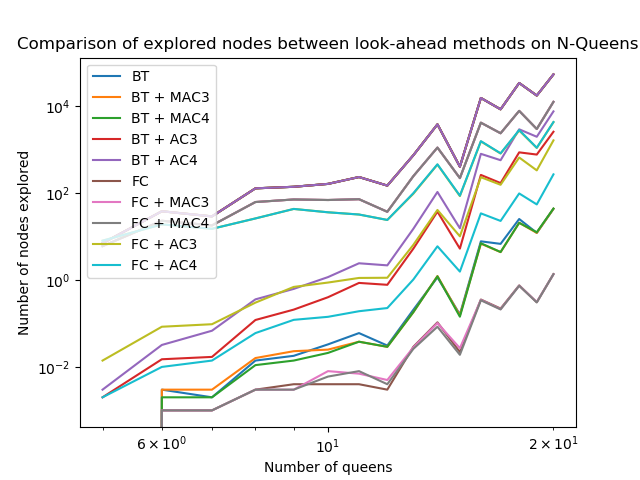
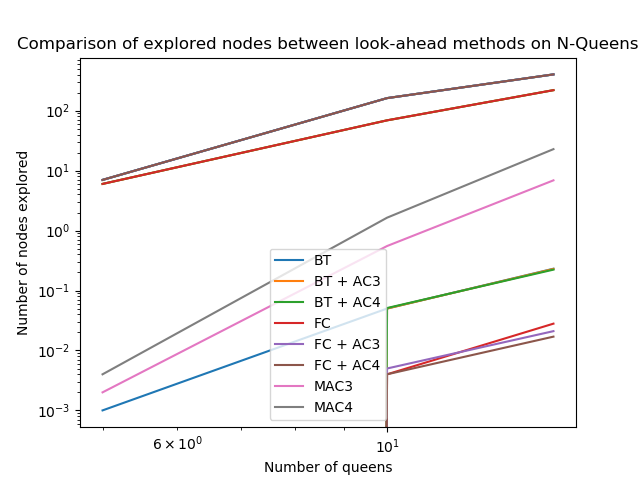
add timeout

diff --git a/src/n_queens.py b/src/n_queens.py
@@ -12,6 +12,7 @@ def verification(assignment: list) -> bool:
     N = len(assignment)
     for i in range(N-1):
         for j in range(i+1, N):
+            if assignment[i] is None or assignment[j] is None: return False
             if not constr_nqueens(i, j, assignment[i], assignment[j]):
                 return False
     return True
@@ -74,60 +75,131 @@ def solve_nqueens(N: int, settings=None):
 
     isFeasible = csp_solver.solve()
     display_sol_nqueens(csp_solver, N)
-    return csp_solver.exploredNodes, csp_solver.exploreTime, isFeasible
+    
+    if isFeasible != verification(csp_solver.assignments):
+        isFeasible = False
+        print("The solution found by Solver is not valid ! ")
+    return csp_solver.exploredNodes, csp_solver.exploreTime, isFeasible, csp_solver.timeOut
 
 
-def benchmarking():
+def benchmarking_consistency():
     import matplotlib.pyplot as plt
 
     instances = dict()  # algo (string) => instance size (list)
     usedTimes = dict()  # algo (string) => times (list)
     nodes = dict()  # algo (string) => nb nodes (list)
 
-    for compo1 in ["BT", "FC"]:
-        for compo2 in [None, "MAC3", "MAC4", "AC3", "AC4"]:
-            method = compo1
-            if compo2 is not None:
-                method += " + " + compo2
+    for lookAhead in ["BT", "FC", "MAC3", "MAC4"]:
+        for root in [None, "AC3", "AC4"]:
+
+            if lookAhead == "MAC3" or lookAhead == "MAC4":
+                if not root is None:
+                    break
+            
+            method = lookAhead
+            if not root is None:
+                method += " + " + root
             sizes = []
             t = []
             n = []
 
-            for N in [*list(range(5, 15, 5)), *range(10, 50, 500)]:  # TODO : a corriger
-                exploredNodes, exploreTime, isFeasible = solve_nqueens(N, [compo1, compo2])
+            for N in [*list(range(5, 20)), *range(20, 50, 5)]:
+                exploredNodes, exploreTime, isFeasible, timeOut = solve_nqueens(N, [lookAhead, root])
                 if isFeasible:
                     sizes.append(N)
                     t.append(exploreTime)
                     n.append(exploredNodes)
-               
+                elif timeOut:
+                    break
+                else:
+                    raise Exception("Solver cannot solve the {}-Queens problem".format(N))
+            
             instances[method] = sizes
             usedTimes[method] = t
             nodes[method] = n
-    
+
+
     # generate picture times
     for method in instances.keys():
         plt.plot(instances[method], usedTimes[method], label = method)
 
     plt.legend()
+    plt.yscale("log")
+    plt.xscale("log")
     plt.title("Comparison of computation times between look-ahead methods on N-Queens")
     plt.xlabel("Number of queens")
     plt.ylabel("Time(s)")
-    plt.savefig('../results/N-Queens_benchmarking_times.png')
+    plt.savefig('../results/N-Queens_impact_consistent_times.png')
 
     # generate picture nodes
     for method in instances.keys():
         plt.plot(instances[method], nodes[method], label = method)
 
-    plt.legend()
     plt.title("Comparison of explored nodes between look-ahead methods on N-Queens")
     plt.xlabel("Number of queens")
     plt.ylabel("Number of nodes explored")
-    plt.savefig('../results/N-Queens_benchmarking_nodes.png')
+    plt.savefig('../results/N-Queens_impact_consistent_nodes.png')
+
+
+
+def benchmarking_heuristics(selections: list, heurictics: str):
+    import matplotlib.pyplot as plt
+
+    select = dict()  # variable selection (string) => instance size (list)
+    usedTimes = dict()  # variable selection (string) => times (list)
+    nodes = dict()  # variable selection (string) => nb nodes (list)
+
+    for option in range(len(selections)):
+        
+        method = selections[option]
+        sizes = []
+        t = []
+        n = []
+
+        for N in [*list(range(5, 20)), *range(20, 50, 5)]: 
+            exploredNodes, exploreTime, isFeasible, timeOut = solve_nqueens(N, ["FC", "AC4"])
+            if isFeasible:
+                sizes.append(N)
+                t.append(exploreTime)
+                n.append(exploredNodes)
+            elif timeOut:
+                break
+            else:
+                raise Exception("Solver cannot solve the {}-Queens problem".format(N))
+        
+        select[method] = sizes
+        usedTimes[method] = t
+        nodes[method] = n
+
+
+    # generate picture times
+    for method in select.keys():
+        plt.plot(select[method], usedTimes[method], label = method)
+
+    plt.legend()
+    plt.yscale("log")
+    plt.xscale("log")
+    plt.title("Comparison of computation times between {} order heuristics on N-Queens".format(heurictics))
+    plt.xlabel("Number of queens")
+    plt.ylabel("Time(s)")
+    plt.savefig('../results/N-Queens_{}_heuristics_times.png'.format(heurictics))
+
+    # generate picture nodes
+    for method in select.keys():
+        plt.plot(select[method], nodes[method], label = method)
+
+    plt.title("Comparison of explored nodes between variables order heuristics on N-Queens")
+    plt.xlabel("Number of queens")
+    plt.ylabel("Number of nodes explored")
+    plt.savefig('../results/N-Queens_{}_heuristics_nodes.png'.format(heurictics))
 
 
 if __name__ == "__main__":
     # import timeit
     # print(timeit.timeit("solve_nqueens(10)", globals=locals()))
 
-    solve_nqueens(15, settings=["MAC4"])
-    #benchmarking()
+    #solve_nqueens(15, settings=["MAC4"])
+    benchmarking_consistency()
+
+    # for (s, h) in [(VARIABLES_SELECTION, "variables"), (VALUES_SELECTION, "values")]:
+    #     benchmarking_heuristics(s, h)

diff --git a/src/coloring.py b/src/coloring.py
@@ -1,6 +1,7 @@
 #!/usr/bin/env python3
 # -*- coding: utf-8 -*-
 
+from typing import Tuple
 from CSP import *
 import os
 
@@ -29,12 +30,23 @@ def lecture(path: str):
     return matrixIncidency, nodes, edges
 
 
-def solve_coloring(path: str, upperB=0):
+def verification(assignment, matrix) -> bool:
+    """ Verify if the given solution is satisfied by graph coloring problem. """
+    nodes = len(assignment)
+    for u in range(nodes-1):
+        for v in range(u+1, nodes):
+            if assignment[u] is None or assignment[v] is None: return False
+            if matrix[u][v]:  # if u, v are adjacent
+                if assignment[u] == assignment[v] : return False
+    return True
+
+
+def solve_coloring(path: str, colors):
     """ Solve the (simple undirected) graph coloring problem with a default given chromatic number. """
     matrix, nodes, edges = lecture(path)
 
-    if upperB == 0:
-        upperB = max(list(map(sum, matrix))) + 1  # set upper bound as the maximum degree + 1
+    # if upperB == 0:
+    #     upperB = max(list(map(sum, matrix))) + 1  # set upper bound as the maximum degree + 1
 
     # mobilization
     csp_solver = CSP()
@@ -42,7 +54,7 @@ def solve_coloring(path: str, upperB=0):
     # variables
     x = []
     for i in range(nodes):
-        x.append(csp_solver.add_variable("x{}".format(i), 1, upperB))
+        x.append(csp_solver.add_variable("x{}".format(i), 1, colors))
 
     # constraints
     for u in range(nodes-1):
@@ -66,16 +78,19 @@ def solve_coloring(path: str, upperB=0):
     print("Total {}s used in the tree exploration.".format(csp_solver.exploreTime))
     print("Sol is feasible ? {}".format(csp_solver.isFeasible))
 
-    return nodes, edges, isFeasible, csp_solver.exploredNodes, csp_solver.exploreTime
+    if isFeasible != verification(csp_solver.assignments, matrix):
+        isFeasible = False
+        print("The solution found by Solver is not valid ! ")
+    return nodes, edges, isFeasible, csp_solver.exploredNodes, csp_solver.exploreTime, csp_solver.timeOut
 
 
 if __name__ == "__main__":
-    chromaticsKnown = {"myciel3.col": 4, "myciel4.col": 5}
-    # , "myciel5.col": 6, "myciel6.col": 7, "myciel7.col": 8,
-    #     "anna.col" : 11, "david.col": 11, "homer.col": 13, "le450_15b.col": 15, "huck.col": 11, "jean.col": 10,
-    #     "games120.col" : 9, "miles250.col": 8, "queen7_7.col": 7, "queen11_11.col": 11, "miles500.col": 20,
-    #     "le450_25a.col": 25, "le450_5a.col": 5, "mulsol.i.1.col": 49, "zeroin.i.1.col": 49, "zeroin.i.2.col": 30, 
-    #     "miles1000.col": 42}
+    chromaticsKnown = {"myciel3.col": 4, "myciel3.col": 3, "myciel4.col": 5, "myciel4.col": 4
+    , "myciel5.col": 6, "myciel6.col": 7, "myciel7.col": 8,
+        "anna.col" : 11, "david.col": 11, "homer.col": 13, "le450_15b.col": 15, "huck.col": 11, "jean.col": 10,
+        "games120.col" : 9, "miles250.col": 8, "queen7_7.col": 7, "queen11_11.col": 11, "miles500.col": 20,
+        "le450_25a.col": 25, "le450_5a.col": 5, "mulsol.i.1.col": 49, "zeroin.i.1.col": 49, "zeroin.i.2.col": 30, 
+        "miles1000.col": 42}
 
     directory = "../instances/"
 
@@ -102,20 +117,22 @@ if __name__ == "__main__":
 \begin{document}
 \begin{center}
 \renewcommand{\arraystretch}{1.4}
- \begin{tabular}{lccccc}
+ \begin{tabular}{lcccccc}
 	\hline
-\textbf{Instance}  & \textbf{vertices} & \textbf{edges}  & \textbf{Chromatic Number} & \textbf{Time(s)} & \textbf{Explored Nodes} \\\hline
+\textbf{Instance}  & \textbf{vertices} & \textbf{edges}  & \textbf{Chromatic Number} & \textbf{Feasible?} & \textbf{Time(s)} & \textbf{Explored Nodes} \\\hline
 
 """
         f.write(latex)
 
         for instance in chromaticsKnown.items():
-            nodes, edges, isFeasible, exploredNodes, exploreTime = solve_coloring(directory + instance[0], instance[1])
-            f.write("{} & {} & {} & ".format(instance[0], nodes, edges))
+            nodes, edges, isFeasible, exploredNodes, exploreTime, timeOut = solve_coloring(directory + instance[0], instance[1])
+            f.write("{} & {} & {} & {} & ".format(instance[0], nodes, edges, instance[1]))
             if isFeasible:
-                f.write("{} & ".format(instance[1]))
+                f.write("Y & ")
+            elif timeOut:
+                f.write("TO & ")
             else:
-                f.write("- & ")
+                f.write("N & ")
             f.write("{} & {} \\\\ \n".format(exploreTime, exploredNodes))
         
         latex = r"""

diff --git a/src/CSP.py b/src/CSP.py
@@ -48,6 +48,9 @@ class CSP(object):
         self.exploredNodes = 0
         self.exploreTime = 0
         self.isFeasible = False
+        self.timeOut = False
+        self.timeLimit = 300 # seconds
+        self.start = None
     
     def __init_parameters(self):
         self.param["variable"] = None
@@ -283,11 +286,11 @@ class CSP(object):
         self.__init_matrix_incidence_supported_values_counter()
         # print("supportedValCount : {}. ".format(self.supportedValCount))
 
-        start = time.time()
+        self.start = time.time()
 
         self.isFeasible = backtracking(self, 0)
 
         end = time.time()
-        self.exploreTime = round(end - start, 3)
+        self.exploreTime = round(end - self.start, 3)
         
         return self.isFeasible

diff --git a/src/backtrack.py b/src/backtrack.py
@@ -3,6 +3,7 @@
 
 import CSP
 from arc_consistency import ac3, ac4
+import time
 
 
 def forward_checking(csp: CSP.CSP, level: int, varId, var) -> bool:
@@ -49,6 +50,10 @@ def backtracking(csp: CSP.CSP, level: int) -> bool:
     if csp.nb_assigned == csp.nbVars:
         return True
 
+    if time.time() - csp.start > csp.timeLimit:
+        csp.timeOut = True
+        return False
+    
     csp.exploredNodes += 1  # arrived at a new node
 
     # Propagate domain updates to (potential) children nodes
